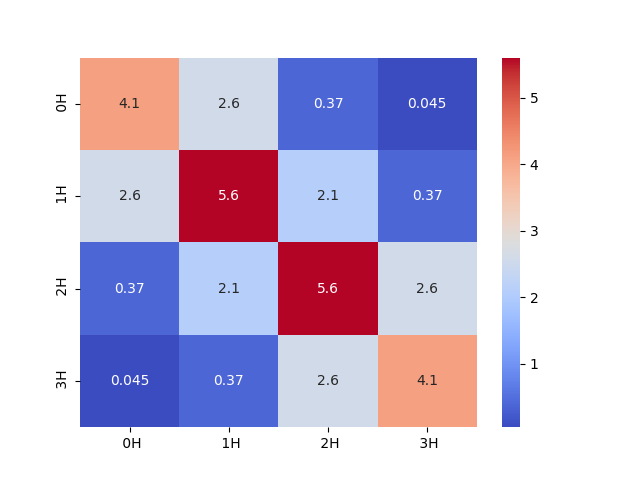
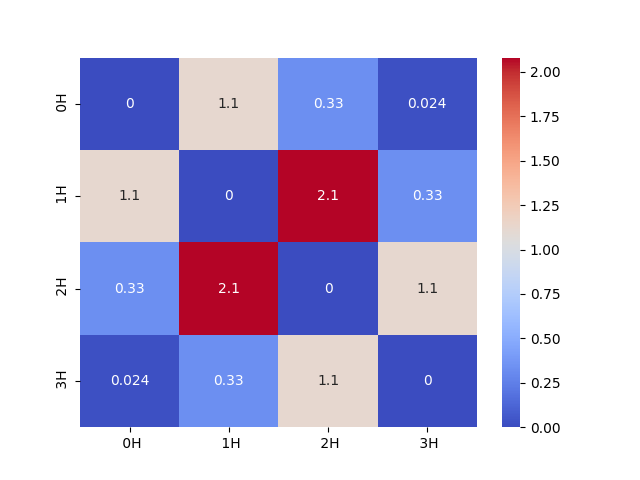
jj修正

diff --git a/abtools/tools.py b/abtools/tools.py
@@ -171,16 +171,28 @@ class AbinitioToolsClass:
         else:
             hcore = self.hcore[site_i, site_j]
         dm1, dm2 = self._init_dms(calc_type)
-
-        if isinstance(dm1, tuple) or isinstance(dm2, tuple):
+        
+        if site_i == site_j:
             raise NotImplementedError
 
-        ijji = dm1[site_i, site_i] + dm2[site_i, site_j, site_j, site_i]
-        jiij = dm1[site_j, site_j] + dm2[site_j, site_i, site_i, site_j]
-        ijij = dm2[site_i, site_j, site_i, site_j]
-        jiji = dm2[site_j, site_i, site_j, site_i]
+        i = site_i
+        j = site_j
 
-        jj = -(-ijji + jiji + ijij - jiij) * (hcore**2)
+        dm1_aa = dm1[0]
+        dm2_aaaa = dm2[0]
+        dm2_abba = dm2[1]
+
+        jj = 0
+        jj -= dm2_aaaa[i, j, i, j] * 2
+        jj -= (dm1_aa[i, i] + dm2_aaaa[i, j, j, i]) * 2
+        jj -= (dm1_aa[j, j] + dm2_aaaa[j, i, i, j]) * 2
+        jj += dm2_abba[i, j, i, j] * 2
+        jj += dm2_abba[i, j, j, i] * 2
+        jj += dm2_abba[j, i, i, j] * 2
+        jj += dm2_abba[j, i, j, i] * 2
+
+
+        jj *= -hcore ** 2
         return jj
 
     def calc_green(self, omega_list, eta=0.01):

diff --git a/test.py b/test.py
@@ -71,7 +71,7 @@ def test_cc_corr():
     myclass.hcore = int1e
     cis = direct_spin1.FCISolver()
     e, c = cis.kernel(int1e, int2e, norb, nelec)
-    dm1, dm2 = cis.make_rdm12(c, norb, nelec)
+    dm1, dm2 = cis.make_rdm12s(c, norb, nelec)
     myclass.dm1 = dm1
     myclass.dm2 = dm2
     jj01 = myclass.calc_jj(0, 1)
@@ -97,7 +97,7 @@ def test_example():
     )
 
     mf_jj = AbinitioToolsClass(hydrogen)
-    mf_jj.run_rks()
+    mf_jj.run_uks()
     mf_jj.calc_jj(0, 1)
 
     dist = 0.7
@@ -130,7 +130,7 @@ def run_example(dist, frm, to):
     )
 
     mf_jj = AbinitioToolsClass(hydrogen)
-    mf_jj.run_rks()
+    mf_jj.run_uks()
     jj = mf_jj.calc_jj(frm, to)
     return jj
 
@@ -199,12 +199,13 @@ def test_util():
     )
 
     mf_jj = AbinitioToolsClass(hydrogen)
-    mf_jj.run_rks()
+    mf_jj.run_uks()
     nao = len(hydrogen.ao_labels())
     jj_all = np.zeros((nao, nao))
     for i in range(nao):
         for j in range(nao):
-            jj_all[i, j] = mf_jj.calc_jj(i, j)
+            if i != j:
+                jj_all[i, j] = mf_jj.calc_jj(i, j)
 
     heatmap_ao(mf_jj.mf, jj_all, path="heatmap_ao_jj.png")
     return
